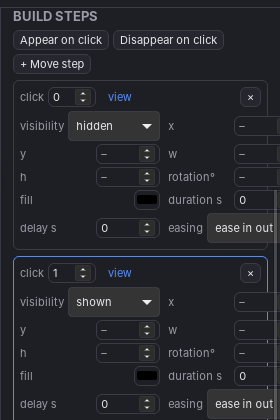
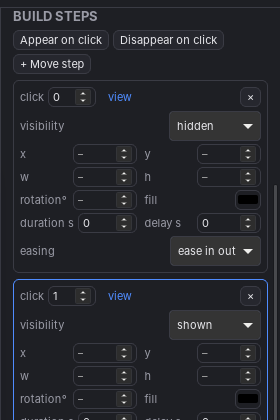
editor: build steps panel fits the side panel
The two-column grid may shrink, number fields flex, and the visibility and
easing menus take a row each. Screenshots retaken; the shot script waits
for tauri-driver to answer instead of sleeping.

Claude-Session: https://claude.ai/code/session_01Td787UY2Ud8GSb917s6rb9

diff --git a/apps/deck-app/src/lib/Steps.svelte b/apps/deck-app/src/lib/Steps.svelte
@@ -69,7 +69,7 @@
           <button onclick={() => remove(i)} title="Remove this step">×</button>
         </div>
         <div class="grid">
-          <label>visibility
+          <label class="wide">visibility
             <select value={s.set.opacity === undefined ? "" : s.set.opacity >= 1 ? "1" : s.set.opacity <= 0 ? "0" : "p"}
                     onchange={(e) => patch(i, (st) => { const v = e.currentTarget.value; if (v === "") delete st.set.opacity; else if (v !== "p") st.set.opacity = +v; })}>
               <option value="">unchanged</option>
@@ -89,7 +89,7 @@
           </label>
           <label>duration s <input type="number" min="0" step="0.1" value={s.duration ?? 0} onchange={(e) => patch(i, (st) => (st.duration = Math.max(0, +e.currentTarget.value)))} /></label>
           <label>delay s <input type="number" min="0" step="0.1" value={s.delay ?? 0} onchange={(e) => patch(i, (st) => (st.delay = Math.max(0, +e.currentTarget.value)))} /></label>
-          <label>easing
+          <label class="wide">easing
             <select value={s.easing ?? "ease_in_out"} onchange={(e) => patch(i, (st) => (st.easing = e.currentTarget.value as Step["easing"]))}>
               <option value="ease_in_out">ease in out</option><option value="linear">linear</option><option value="ease_in">ease in</option><option value="ease_out">ease out</option>
             </select>
@@ -105,17 +105,19 @@
   .steps { display: flex; flex-direction: column; gap: 6px; }
   .row { display: flex; flex-wrap: wrap; gap: 4px; }
   .row button, .head button { font-size: 11px; padding: 2px 6px; }
-  .step { border: 1px solid var(--border); border-radius: 6px; padding: 6px; }
+  .step { min-width: 0; border: 1px solid var(--border); border-radius: 6px; padding: 6px; }
   .step.current { border-color: var(--accent); }
   .head { display: flex; align-items: center; gap: 6px; margin-bottom: 4px; }
   .head label { display: flex; align-items: center; gap: 4px; color: var(--muted); font-size: 11px; }
   .head input { width: 48px; padding: 2px 4px; }
   .spacer { flex: 1; }
   .link { background: none; border: none; color: var(--accent); padding: 0; font-size: 11px; }
-  .grid { display: grid; grid-template-columns: 1fr 1fr; gap: 3px 8px; }
-  .grid label { display: flex; align-items: center; justify-content: space-between; gap: 4px; color: var(--muted); font-size: 11px; }
-  .grid input[type="number"] { width: 64px; padding: 2px 4px; }
+  /* Cells may shrink below their content: the side panel is narrow. */
+  .grid { display: grid; grid-template-columns: minmax(0, 1fr) minmax(0, 1fr); gap: 3px 8px; }
+  .grid label { display: flex; align-items: center; justify-content: space-between; gap: 4px; min-width: 0; color: var(--muted); font-size: 11px; white-space: nowrap; }
+  .grid input[type="number"] { flex: 0 1 64px; width: 0; min-width: 36px; padding: 2px 4px; }
   .grid input[type="color"] { width: 26px; height: 20px; padding: 0; border: 1px solid var(--border); background: none; }
-  .grid select { padding: 2px; background: var(--bg); color: var(--fg); border: 1px solid var(--border); border-radius: 4px; font-size: 11px; }
+  .grid .wide { grid-column: 1 / -1; }
+  .grid select { flex: 0 1 auto; min-width: 0; max-width: 100%; padding: 2px; background: var(--bg); color: var(--fg); border: 1px solid var(--border); border-radius: 4px; font-size: 11px; }
   .muted { color: var(--muted); font-size: 11px; margin: 2px 0; }
 </style>

diff --git a/docs/screenshots/shoot.py b/docs/screenshots/shoot.py
@@ -10,6 +10,7 @@ import os
 import subprocess
 import sys
 import time
+import urllib.request
 from pathlib import Path
 
 sys.path.insert(0, str(Path(__file__).resolve().parent))
@@ -26,12 +27,25 @@ class Driver:
     def __init__(self, **env: str):
         self.p = subprocess.Popen(["tauri-driver"], env={**os.environ, "DECKER_OPEN": DECK, **env},
                                   stdout=subprocess.DEVNULL, stderr=subprocess.DEVNULL)
-        time.sleep(2)
+        # Ready when it answers its status endpoint.
+        for _ in range(100):
+            try:
+                urllib.request.urlopen(DRIVER + "/status", timeout=1).read()
+                return
+            except OSError:
+                time.sleep(0.1)
+        raise RuntimeError("tauri-driver did not start")
 
     def close(self):
         self.p.terminate()
         self.p.wait()
-        time.sleep(0.5)
+        # Wait for the port to be free again.
+        for _ in range(100):
+            try:
+                urllib.request.urlopen(DRIVER + "/status", timeout=1)
+                time.sleep(0.1)
+            except OSError:
+                break
 
 
 class Editor:
